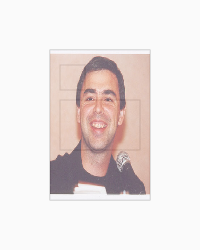
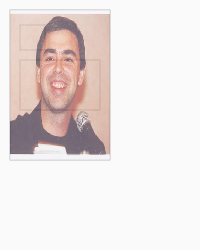
Pass display rectangle to LayoutInspectorRenderer
Exclusively use the display rectangle when transforming Layout Inspector
UI.

Test: existing
Bug: 265150325

diff --git a/layout-inspector/src/com/android/tools/idea/layoutinspector/runningdevices/LayoutInspectorRenderer.kt b/layout-inspector/src/com/android/tools/idea/layoutinspector/runningdevices/LayoutInspectorRenderer.kt
@@ -30,41 +30,35 @@ import java.awt.geom.AffineTransform
  *
  * @param component The component on which we are rendering.
  * It is used to access swing properties that this class wouldn't know how to access otherwise.
- * @param deviceFrameSizeProvider Provides the size of the device frame. Scaled accordingly to screen pixel density.
  */
 class LayoutInspectorRenderer(
   private val renderLogic: RenderLogic,
   private val renderModel: RenderModel,
-  private val component: Component,
-  private val deviceFrameSizeProvider: () -> Rectangle?,
+  private val component: Component
 ) {
 
   /**
-   * Transform to the center of the panel and apply scale
+   * Transform to the center of the panel and scale Layout Inspector UI to display size.
+   * @param displayRectangle The rectangle on which the device display is rendered.
    */
-  private val transform: AffineTransform
-    get() {
-      val deviceFrameRectangle = deviceFrameSizeProvider() ?: Rectangle(1, 1)
-      val deviceFrameContainerDimensions = component.size
+  private fun getTransform(displayRectangle: Rectangle): AffineTransform {
+    val rootView = renderModel.model.root
 
-      val rootView = renderModel.model.root
-      // deviceFrameRectangle is scaled according to the pixel density of the screen, we need bring it back to not scaled size.
-      val screenScale = component.graphicsConfiguration?.defaultTransform?.scaleX ?: 1.0
+    // calculate how much we need to scale the Layout Inspector bounds to match the device frame.
+    val scale = displayRectangle.width.toDouble() / rootView.layoutBounds.bounds.width.toDouble()
 
-      // calculate how much we need to scale the Layout Inspector bounds to match the device frame.
-      val scale = (deviceFrameRectangle.width.toDouble() / screenScale) / rootView.layoutBounds.bounds.width.toDouble()
-
-      return AffineTransform().apply {
-        // translate to center of panel
-        translate(deviceFrameContainerDimensions.width / 2.0, deviceFrameContainerDimensions.height / 2.0)
-        scale(scale, scale)
-      }
+    return AffineTransform().apply {
+      // translate to center of panel
+      translate(displayRectangle.x + displayRectangle.width / 2.0, displayRectangle.y + displayRectangle.height / 2.0)
+      scale(scale, scale)
     }
+  }
 
-  fun paint(g: Graphics) {
+  fun paint(g: Graphics, displayRectangle: Rectangle) {
     val g2d = g as Graphics2D
     g2d.color = primaryPanelBackground
 
+    val transform = getTransform(displayRectangle)
     g2d.transform = g2d.transform.apply { concatenate(transform) }
 
     renderLogic.renderBorders(g2d, component, component.foreground)

diff --git a/layout-inspector/testSrc/com/android/tools/idea/layoutinspector/runningdevices/LayoutInspectorRendererTest.kt b/layout-inspector/testSrc/com/android/tools/idea/layoutinspector/runningdevices/LayoutInspectorRendererTest.kt
@@ -68,7 +68,7 @@ class LayoutInspectorRendererTest {
   private val screenDimension = Dimension(200, 250)
   private val deviceFrameDimension = Dimension(100, 150)
 
-  private val deviceFrame = Rectangle(0, 0, deviceFrameDimension.width, deviceFrameDimension.height)
+  private val deviceFrame = Rectangle(10, 10, deviceFrameDimension.width, deviceFrameDimension.height)
   private lateinit var component: Component
 
   @Before
@@ -83,7 +83,7 @@ class LayoutInspectorRendererTest {
 
   @Test
   fun testViewBordersAreRendered() {
-    val layoutInspectorRenderer = LayoutInspectorRenderer(renderLogic, renderModel, component) { deviceFrame }
+    val layoutInspectorRenderer = LayoutInspectorRenderer(renderLogic, renderModel, component)
 
     @Suppress("UndesirableClassUsage")
     val renderImage = BufferedImage(screenDimension.width, screenDimension.height, BufferedImage.TYPE_INT_ARGB)
@@ -93,7 +93,7 @@ class LayoutInspectorRendererTest {
 
   @Test
   fun testOverlayIsRendered() {
-    val layoutInspectorRenderer = LayoutInspectorRenderer(renderLogic, renderModel, component) { deviceFrame }
+    val layoutInspectorRenderer = LayoutInspectorRenderer(renderLogic, renderModel, component)
 
     renderModel.overlay = ImageIO.read(TestUtils.resolveWorkspacePathUnchecked("${TEST_DATA_PATH}/overlay.png").toFile())
 
@@ -109,7 +109,7 @@ class LayoutInspectorRendererTest {
     graphics.fillRect(Rectangle(0, 0, renderDimension.width, renderDimension.height), Color(250, 250, 250))
     graphics.font = ImageDiffTestUtil.getDefaultFont()
 
-    layoutInspectorRenderer.paint(graphics)
+    layoutInspectorRenderer.paint(graphics, deviceFrame)
   }
 
   /**
